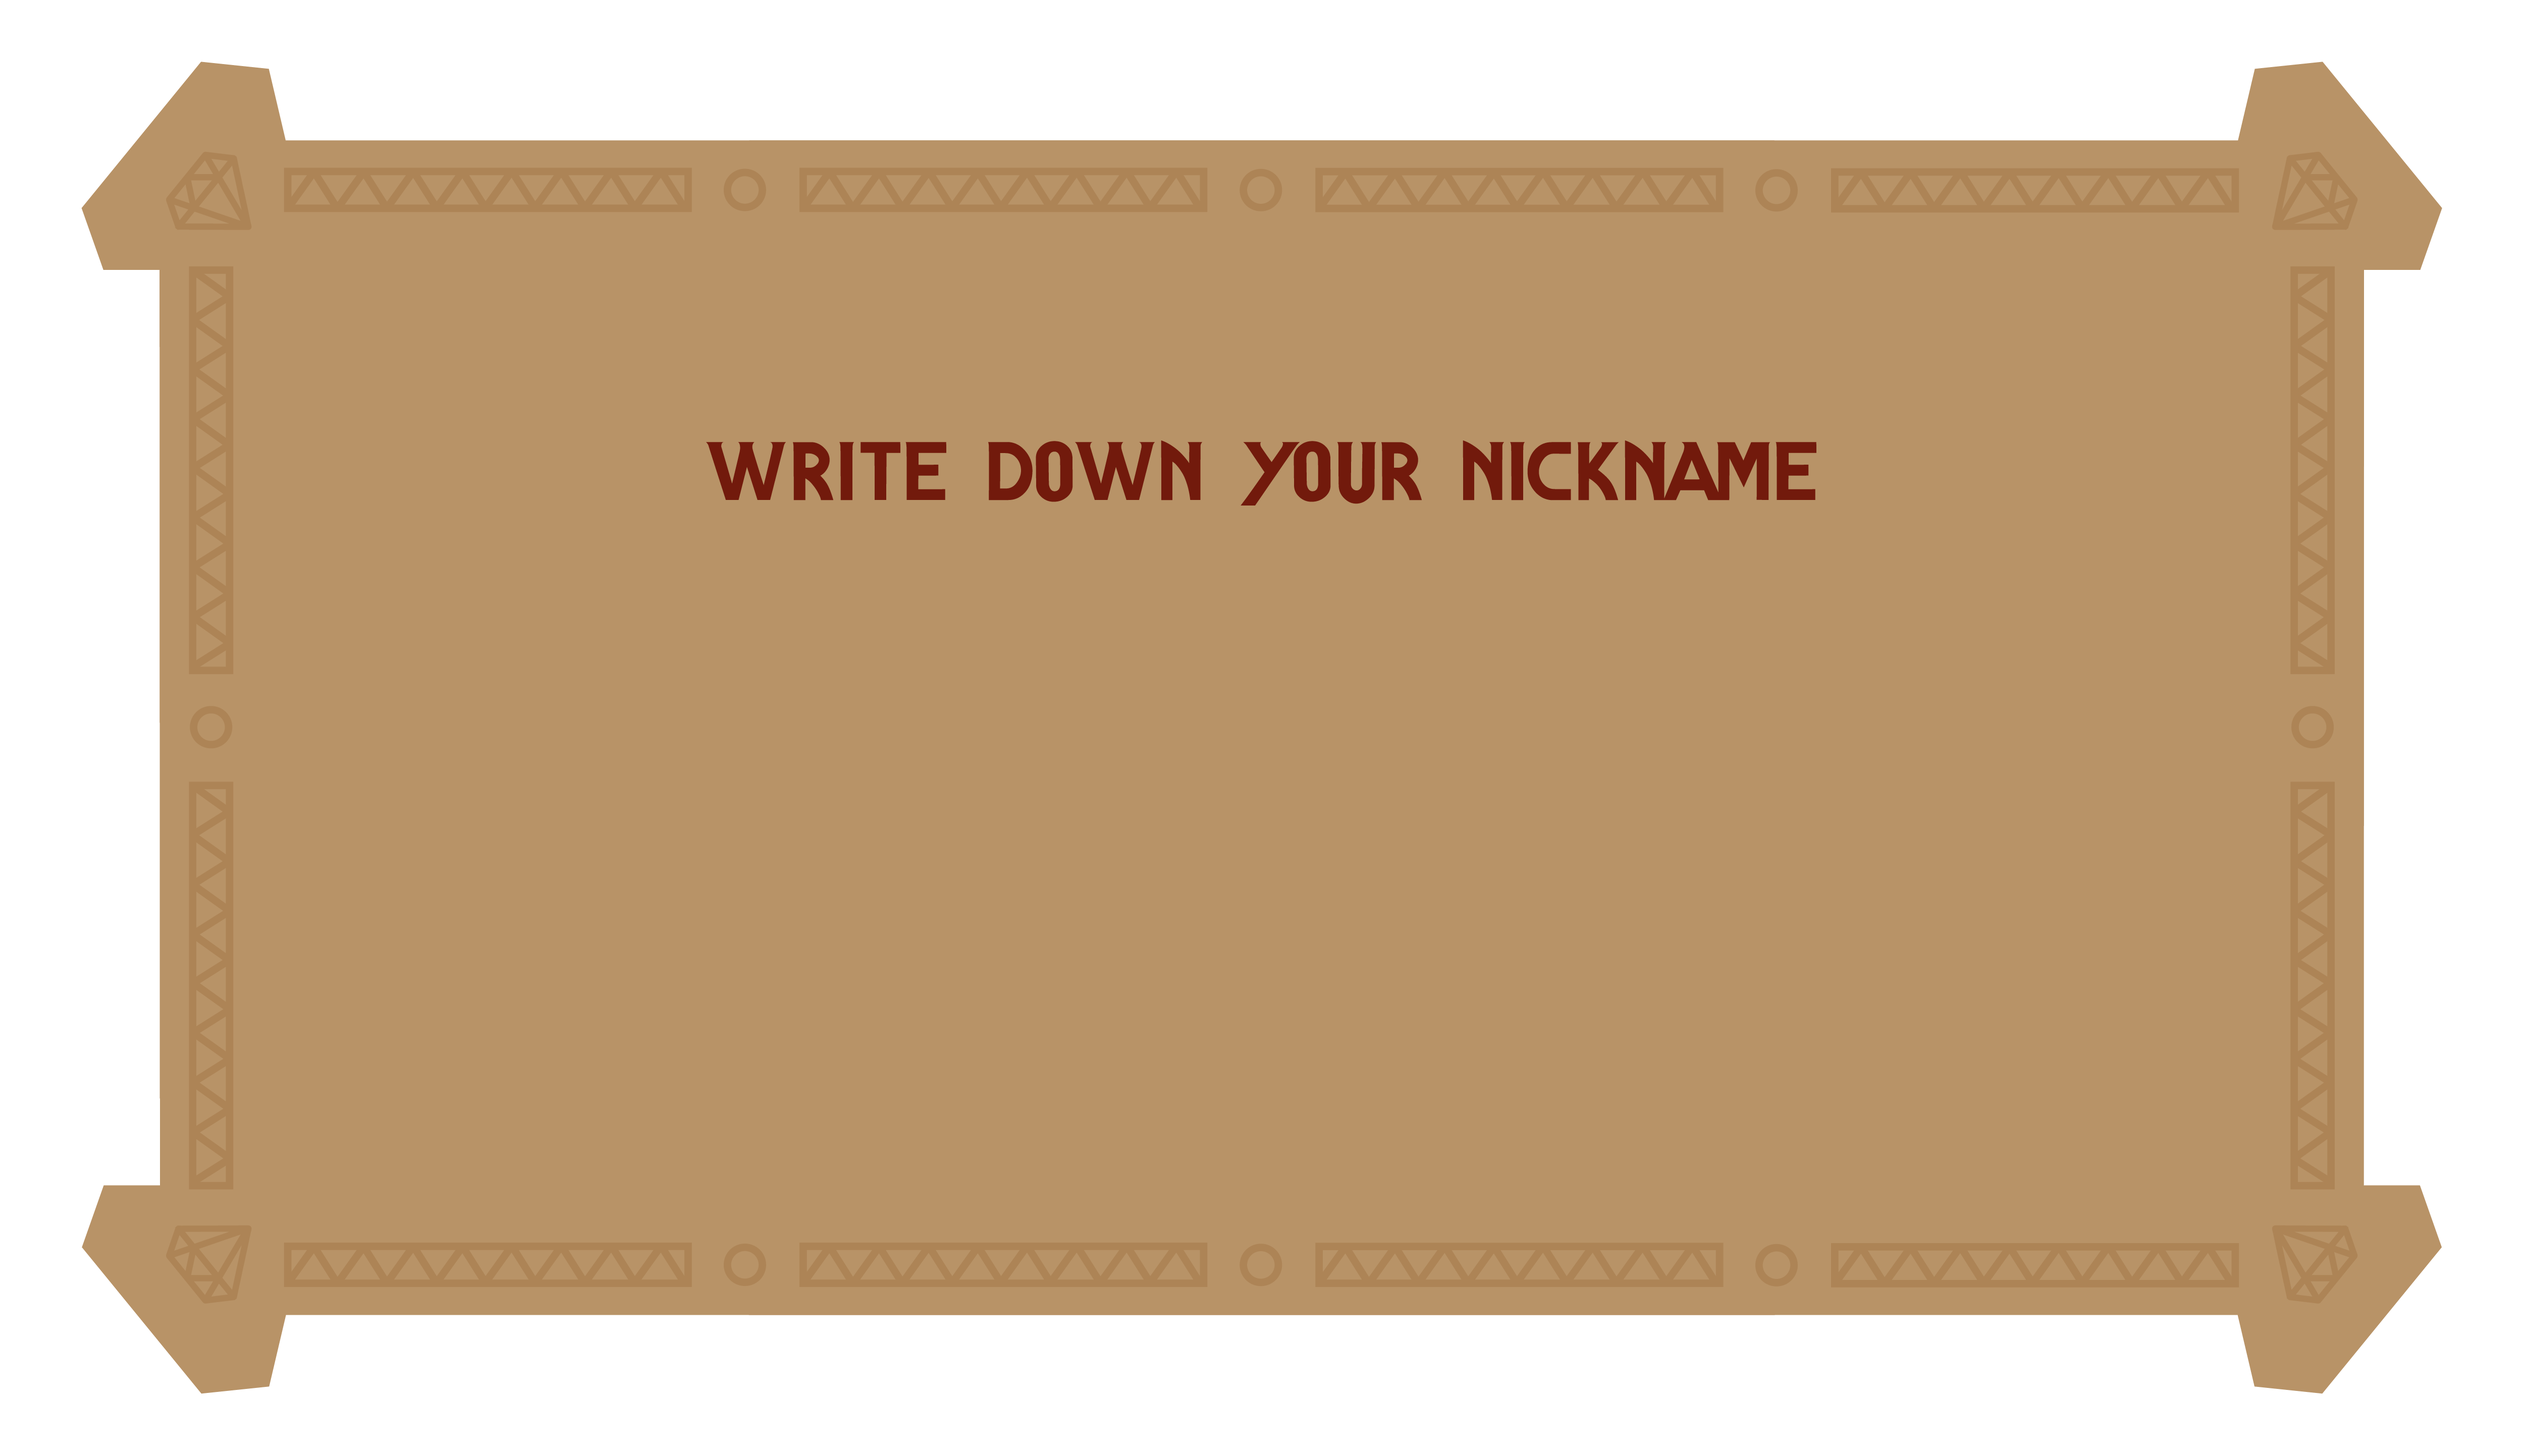
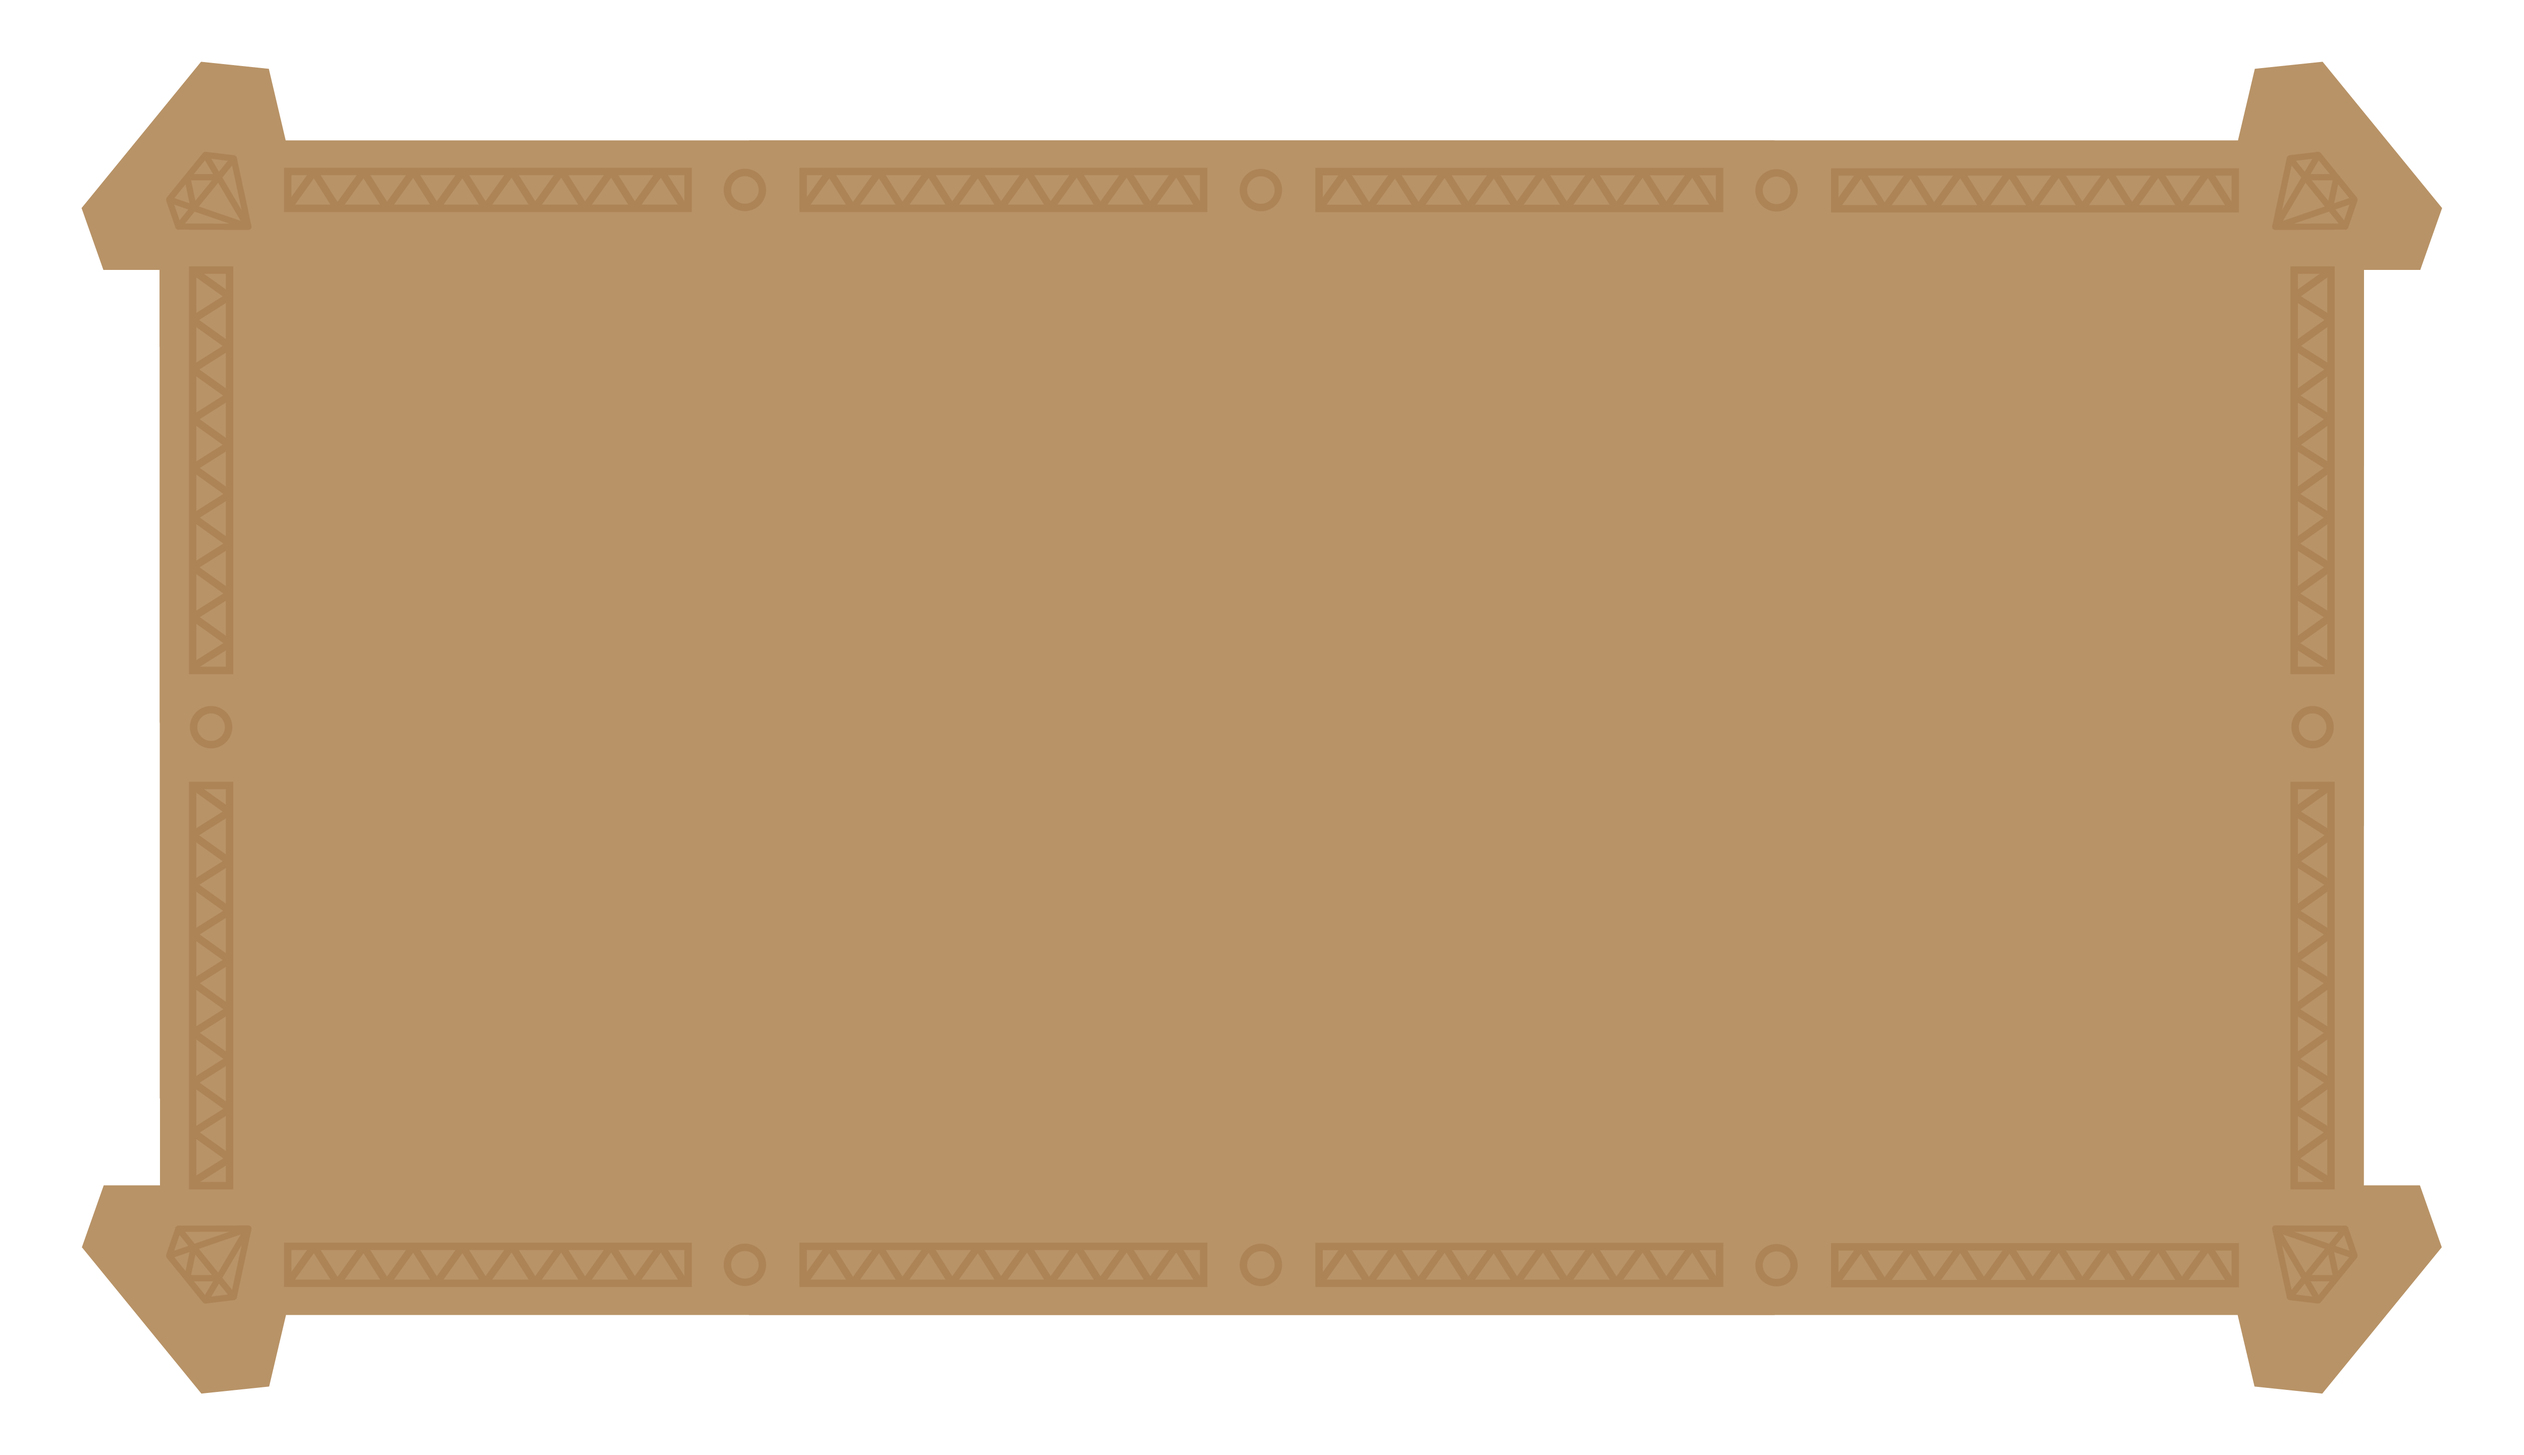
Rules e font
Coloquei as regras a aparecerem de 5 em 5 segundo e coloquei a fonte (provisória)

Changed region(s): [[0.2807, 0.2809, 0.7175, 0.3433]]

diff --git a/JS/rules.js b/JS/rules.js
@@ -1,4 +1,4 @@
-document.addEventListener('DOMContentLoaded', function() {
+document.addEventListener('DOMContentLoaded', function () {
     let savedNickname = localStorage.getItem("nickname");
 
     if (savedNickname) {
@@ -8,3 +8,33 @@ document.addEventListener('DOMContentLoaded', function() {
         console.log("Nenhum nickname encontrado.");
     }
 });
+
+//desenha as regras de x em x segundos, para que apreça uma parte do texto de cada vez na tela
+function mostraTexto() {
+    let texto = document.querySelectorAll('.rules');
+    let nL = 3; // número de linhas de texto (h2)
+    let i = 0; // variável para controlar qual dos h2 é exibido 
+
+    function escreve() {
+
+        if (i < nL) { // Verifica se o índice está dentro do limite
+            // Esconde todas as frases usando um ciclo for
+            for (let j = 0; j < nL; j++) {
+                texto[j].style.display = 'none';
+            }
+
+            // Exibe a frase atual
+            texto[i].style.display = 'block';
+            i++; // Incrementa o índice para o próximo texto
+        }
+    }
+
+    // mostra o primeiro h2
+    escreve();
+
+    // define o intervalo para trocar os h2 a cada 5 segundos
+    setInterval(escreve, 5000);
+}
+
+// Executa a função após o carregamento da página
+window.onload = mostraTexto;

diff --git a/rules.html b/rules.html
@@ -10,10 +10,18 @@
 </head>
 
 <body>
-    <header>
-        <img class="mapaInicial" src="images/mapa.jpg" alt="fundoInicial">
-        <div class="nicknameContainer">
-            <h2>Welcome to Jumanji Dr.<span id="nicknameDisplay"></span></h2>
+    <header class="backgroundSecundario">
+        <picture class="imgNickname">
+            <!--se a largura da tela for menor ou igual a 1500px, desenha a imagem pequena-->
+            <source media="(max-width: 1280)" width="90%" height="auto" srcset="images/nickname_S.png">
+            <source media="(min-width: 1280px)" width="90%" height="auto" srcset="images/nickname_G.png">
+            <img class="imagem" src="images/nickname_S.png" width="90%" height="auto">
+        </picture>
+
+        <div class="rulesContainer">
+            <h2 class="rules texto">Welcome to Jumanji Dr.<span id="nicknameDisplay"></span></h2>
+            <h2 class="rules texto">Bl bla bla bla bla</h2>
+            <h2 class="rules texto">The future of Jumanji is in your hands, goodluck</h2>
         </div>
     </header>
     <script src="/JS/rules.js"></script>

diff --git a/JS/nickname.js b/JS/nickname.js
@@ -1,13 +1,12 @@
 let nickname = document.getElementById("nicknameForm");
-let savedNickname = localStorage.getItem("nicknameForm");
+let savedNickname = document.getElementById("nickname");
 
 nickname.addEventListener("submit", saveNicknameOnSubmit);
 
-// Salva o nickname quando o usuário clica no botão de submit
+// Guarda o nickname quando o botão submit é carregado
 function saveNicknameOnSubmit(event) {
-    event.preventDefault();  // Impede o envio do formulário
-    let name = nickname.value;
-    localStorage.setItem("nickname", name);  // Salva o nickname no localStorage
-    window.location.href = "scan.html"; // Redireciona para a página scan.html
+    event.preventDefault();  //impede que o formulário seja logo enviado
+    let name = savedNickname.value;
+    localStorage.setItem("nickname", name);  // guarda o nickname no localStorage
+    window.location.href = "scan.html"; // redireciona para a página scan.html
 }
-

diff --git a/CSS/nickname.css b/CSS/nickname.css
@@ -11,7 +11,16 @@
     align-items: center;
 }
 
-.nicknameContainer {
+.backgroundSecundario>h1{
+    position: absolute;
+    display: flex;
+    justify-content: end;
+    z-index: 2;
+    margin-bottom: 17%;
+    font-size: 3vw;
+}
+
+.nicknameContainer, .rulesContainer {
     position: absolute;
     display: flex;
     flex-direction: column;
@@ -32,6 +41,7 @@ form {
 }
 
 form>input {
+    /*coloca a imagem dentro do input*/
     background: url('/images/input.png') no-repeat left center;
     background-size: 100%;
     border: none;
@@ -62,4 +72,13 @@ form>button>img {
     display: flex;
     align-items: center;
     justify-self: center;
+}
+
+/* CSS dedica apenas à parte das rules */
+.rulesContainer{
+    width: 50%;
+}
+
+.rules{
+    font-size: 2.3vw;
 }

diff --git a/CSS/comuns.css b/CSS/comuns.css
@@ -1,5 +1,11 @@
 /*html dedicado aos estilos comuns entre as páginas homepage e nickname*/
 
+/*importação da fonte*/
+@font-face {
+    font-family: 'Junglelaw';
+    src: url('/font/Junglelaw-ZVpLZ.woff') format('woff'); 
+}
+
 html {
     overflow: hidden;
 }
@@ -17,4 +23,12 @@ header {
     display: flex;
     align-items: center;
     justify-content: center;
+}
+
+.texto {
+    color: #721a0c;    
+    display: none;
+    font-family: Junglelaw;
+    text-align: center;
+    letter-spacing: 0.2vw;
 }

diff --git a/nickname.html b/nickname.html
@@ -17,6 +17,7 @@
             <source media="(min-width: 1280px)" width="90%" height="auto" srcset="images/nickname_G.png">
             <img class="imagem" src="images/nickname_S.png" width="90%" height="auto">
         </picture>
+        <h1 class="texto">WRITE DOWN YOUR NICKNAME</h1>
         <div class="nicknameContainer">
             <form id="nicknameForm">
                 <input type="text" id="nickname" required>

diff --git a/JS/scan.js b/JS/scan.js
@@ -17,5 +17,5 @@ function draw() {
 }
 
 function muda(){
-    window.location.href = "rules.html";//nota é suposto ir para a parte de cair não das regras
+    window.location.href = "rules.html";//é suposto ir para a parte de cair não das regras
 }
